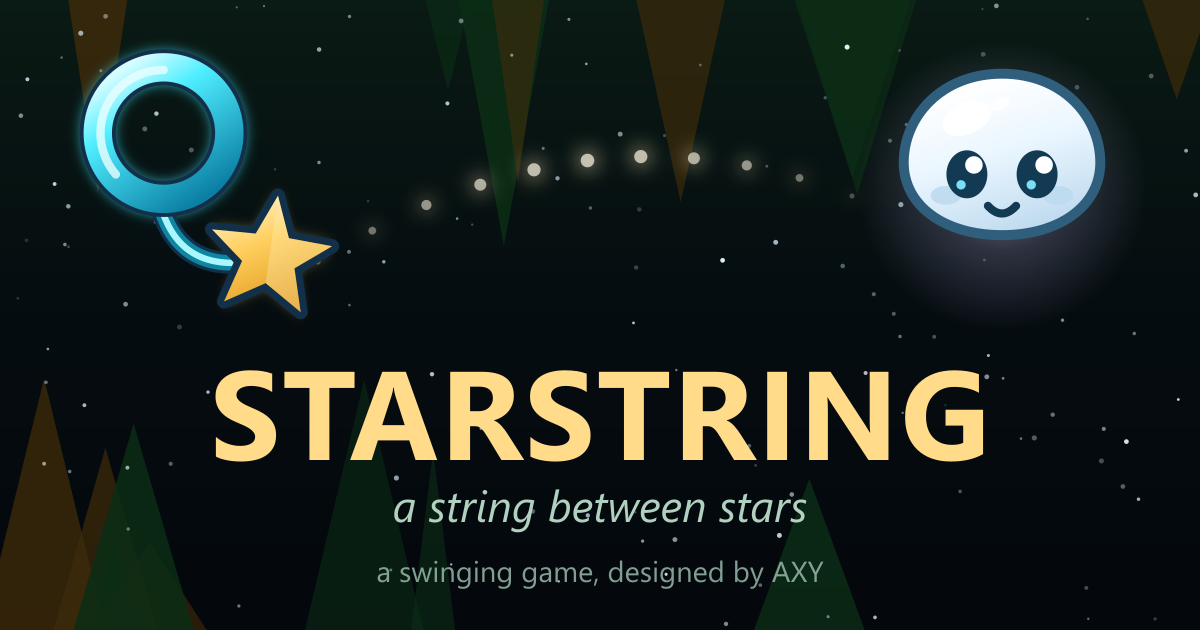
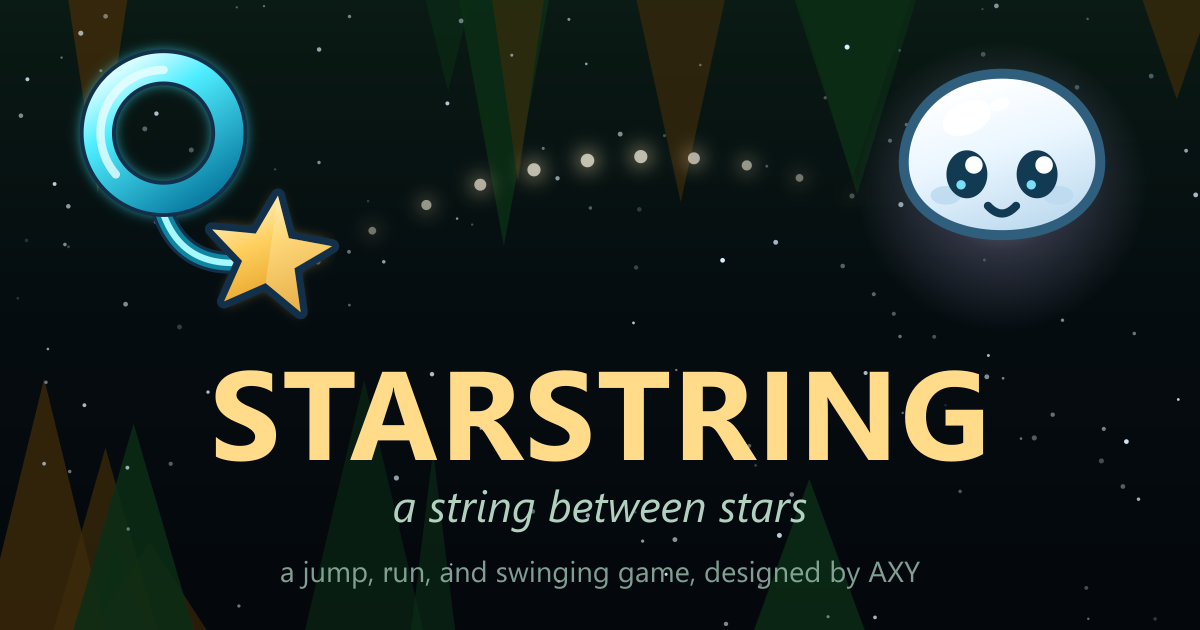
Say what kind of game it is
"a swinging game" undersold it. Swinging is the best part, but you run
and jump the whole way there, and someone deciding whether to tap a
link should be told that.

Changed region(s): [[0.2158, 0.8746, 0.7708, 0.9349]]

diff --git a/index.html b/index.html
@@ -7,7 +7,7 @@
   <meta name="mobile-web-app-capable" content="yes">
   <meta name="theme-color" content="#140820">
   <title>Starstring</title>
-  <meta name="description" content="A string between stars. Swing from glowing rings across an alien star system, chasing the pet blob who ran away. A game designed by AXY.">
+  <meta name="description" content="A string between stars. Swing from glowing rings across an alien star system, chasing the pet blob who ran away. A jump, run, and swinging game, designed by AXY.">
   <link rel="canonical" href="https://starstring.y7.ai/">
 
   <!-- THE ICON.
@@ -34,7 +34,7 @@
   <meta property="og:type" content="website">
   <meta property="og:site_name" content="Starstring">
   <meta property="og:title" content="Starstring — a string between stars">
-  <meta property="og:description" content="Swing from glowing rings across an alien star system, chasing the pet blob who ran away. A game designed by AXY.">
+  <meta property="og:description" content="Swing from glowing rings across an alien star system, chasing the pet blob who ran away. A jump, run, and swinging game, designed by AXY.">
   <meta property="og:url" content="https://starstring.y7.ai/">
   <meta property="og:image" content="https://starstring.y7.ai/assets/og.png">
   <meta property="og:image:type" content="image/png">
